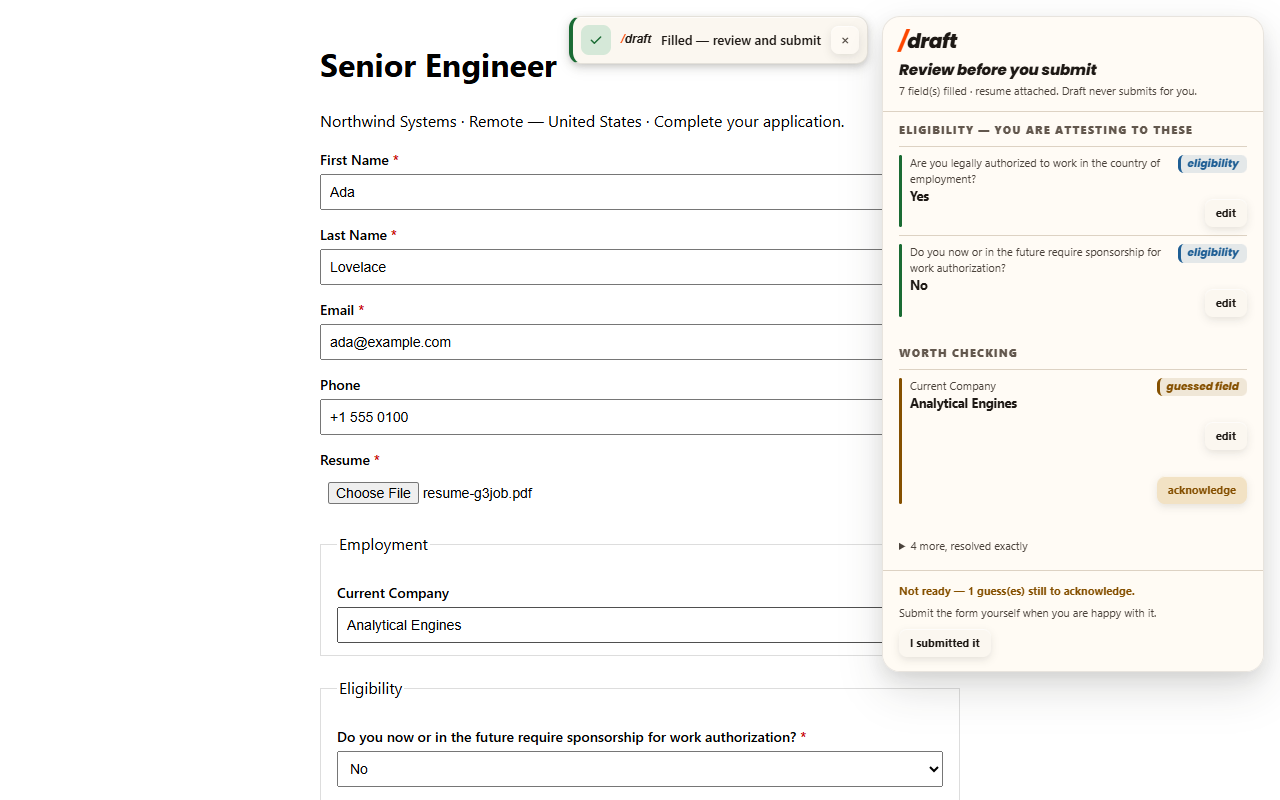
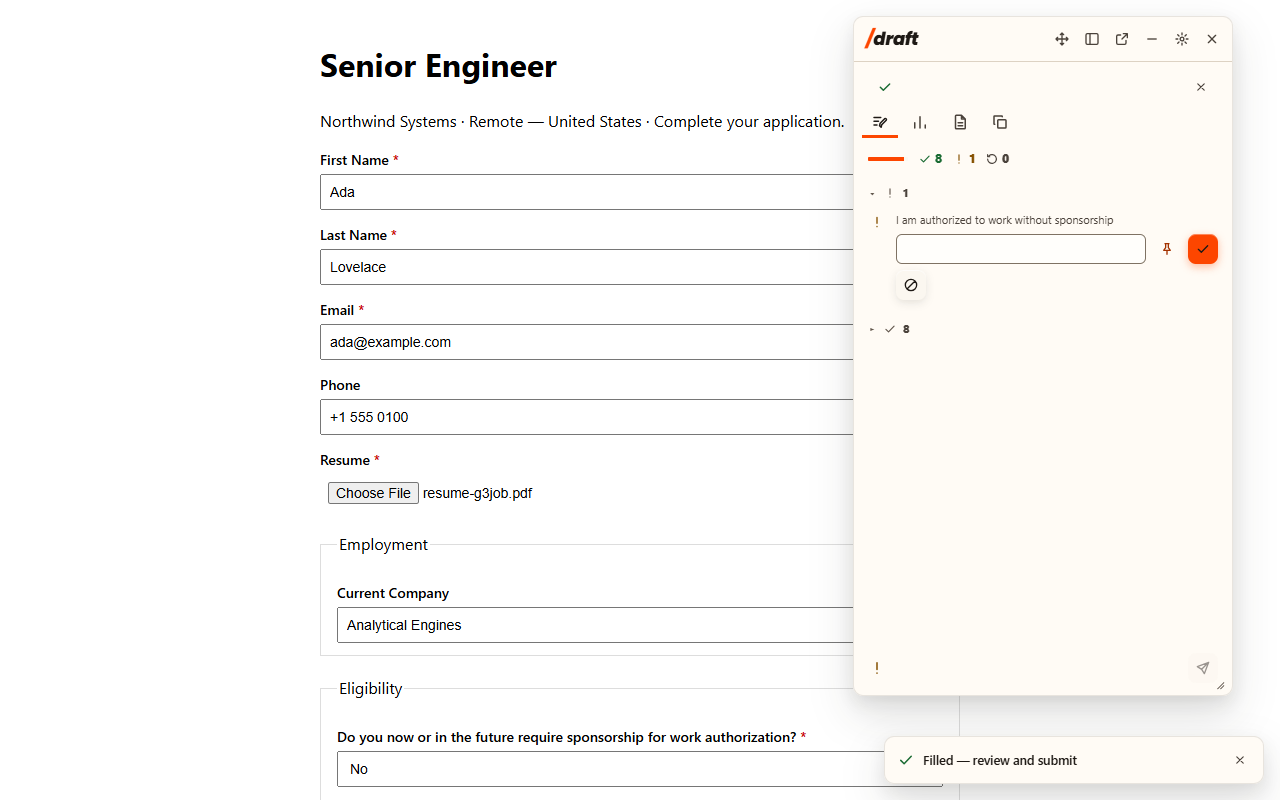
fix(store): T31 owner action 2 — the store screenshots show the dock, not the retired toolbar popup; the screenshot harness works again
2-popup.png showed the toolbar popup T31 retired. It is replaced by docs/store-screenshots/2-dock.png:
the dock the toolbar press opens on a posting, asking "Add this job to draft?" [Capture] [Draft] —
ONE real capture of the page, drawn by the extension; nothing composited. The press is sent as
TOOLBAR_PRESS from the extension's own page, which runs the same pressToolbar() as the toolbar's
onClicked (walks/toolbarPress). `npm run store:screenshots`: ALL PASS, all three 1280x800, 24-bit,
no alpha, the real-profile-value guard reading the dock's shadow text too.

The harness (scripts/g3ReviewOverlay.mjs) had been broken well before T31 — it last ran 10-09:
  - its hand-rolled schema lacked scraped_jobs.duplicate_of (the route threw), and it had no
    POST /api/extension/page, so binding-first stopped every fill at "draft couldn't be reached".
    It now builds the FULL schema from scripts/migrations.js and mounts the REAL identify route,
    as test-support/extensionBrowser.mjs does. The full schema cannot fall behind the routes.
  - its overlay checks reached into the old in-page overlay; the review is now the dock's Fill view
    (a shadow root; Needs you · Check · Filled). Same intents, re-pointed, with trusted clicks:
    Needs you comes first and holds the inverted eligibility question draft will not guess; Filled is
    collapsed; "Not ready — 1 needs you" until the person answers it (Leave blank), then "Ready";
[…]

diff --git a/scripts/fakeAts.js b/scripts/fakeAts.js
@@ -539,6 +539,49 @@ function ashbySpaForm({ delayMs, answerable = false, autofillTrap = false, deadS
   </script>`);
 }
 
+// T31 · the store screenshot's POSTING — a job description page, not an application form. The
+// toolbar press asks "Add this job to draft?" only on a page the capture's own matcher reads as a
+// posting (routes/extensionJob.js), and /ashby-spa is an application form with no description:
+// the press there rightly asks nothing. A SYNTHETIC employer only (the screenshot harness refuses a
+// real one), published the way most boards publish one — a JSON-LD JobPosting — so the extractor
+// names the company the way it does on a live board, not from the fixture's host.
+function postingPage() {
+  const ld = {
+    '@context': 'https://schema.org', '@type': 'JobPosting',
+    title: 'Senior Backend Engineer',
+    hiringOrganization: { '@type': 'Organization', name: 'Northwind Systems' },
+    jobLocationType: 'TELECOMMUTE', applicantLocationRequirements: { '@type': 'Country', name: 'United States' },
+    employmentType: 'FULL_TIME', datePosted: '2026-10-20',
+    // the full description, as boards publish it — the extractor files a page as a posting only when
+    // it carries one (extractor.js: a title alone is not a job)
+    description: '<p>Northwind Systems moves freight for ten thousand small businesses. You will build and run the ' +
+      'services behind our logistics platform: the APIs our customers integrate with, the pipelines that price a ' +
+      'shipment, and the tooling the rest of engineering depends on.</p><ul><li>5+ years building production backend ' +
+      'systems.</li><li>Relational databases, queues and cloud infrastructure.</li></ul>',
+  };
+  return page('Senior Backend Engineer — Northwind Systems', `
+  <script type="application/ld+json">${JSON.stringify(ld)}</script>
+  <h1>Senior Backend Engineer</h1>
+  <p style="font-size:13px;color:#666">Northwind Systems &middot; Remote &mdash; United States &middot; Full-time</p>
+  <h2>About the role</h2>
+  <p>Northwind Systems moves freight for ten thousand small businesses. You will build and run the
+  services behind our logistics platform: the APIs our customers integrate with, the pipelines that
+  price a shipment, and the tooling the rest of engineering depends on.</p>
+  <h2>What you will do</h2>
+  <ul>
+    <li>Design, build and operate backend services in a modern, typed language.</li>
+    <li>Own a service end to end — its data model, its on-call and its roadmap.</li>
+    <li>Work with product and design on the features customers ask for most.</li>
+  </ul>
+  <h2>What we look for</h2>
+  <ul>
+    <li>5+ years building production backend systems.</li>
+    <li>Experience with relational databases, queues and cloud infrastructure.</li>
+    <li>Clear writing, and care for the people who use what you build.</li>
+  </ul>
+  <p><a href="/ashby-spa?delay=0&amp;presentation=1">Apply for this job</a></p>`);
+}
+
 // The confirmation the submit navigates to. Separate page, real navigation — so `url_changed` and
 // the confirmation text are both genuinely earned rather than asserted by the fixture.
 function ashbySpaThanks() {
@@ -1654,6 +1697,7 @@ const server = http.createServer(async (req, res) => {
       }));
     }
     if (path === '/ashby-spa/thanks') return send(200, ashbySpaThanks());
+    if (path === '/posting')          return send(200, postingPage());
     if (path === '/spa') {
       // ?delay=<ms> overrides the hydration delay; ?delay=0 renders synchronously.
       // ?variant=2 serves a CHANGED form, for the schema-reconciliation case.

diff --git a/test/storeScreenshots.test.js b/test/storeScreenshots.test.js
@@ -15,7 +15,7 @@ import {
 import { at } from "../test-support/sourceAnchors.js";
 
 const SHOT_DIR = "docs/store-screenshots";
-const SHOTS = ["1-review-overlay", "2-popup", "3-options"];
+const SHOTS = ["1-review-overlay", "2-dock", "3-options"];
 
 // ── The PNG encoder ─────────────────────────────────────────────────────────────────────────────
 
@@ -127,7 +127,7 @@ test("?presentation=1 removes the trap CAPTIONS and keeps the traps THEMSELVES",
   assert.match(ats, /gatedForm\(\{ presentation: url\.searchParams\.get\('presentation'\) === '1' \}\)/);
 });
 
-test("the posting behind the popup drops the harness caption AND the real employer's brand", () => {
+test("the posting behind the dock drops the harness caption AND the real employer's brand", () => {
   const ats = fs.readFileSync("scripts/fakeAts.js", "utf8");
   const form = ats.slice(at(ats, "function ashbySpaForm("), at(ats, "function ashbySpaThanks("));
   assert.match(form, /presentation \? 'Senior Backend Engineer — Northwind Systems'/);
@@ -157,16 +157,17 @@ test("nothing is written until the image has been proved 1280x800, 24-bit and al
   assert.doesNotMatch(write, /check\(/, "a wrong-sized image must kill the run, not be tallied");
 });
 
-test("both capture paths go through the same gate", () => {
-  // The composited popup shot is built differently and must not be written differently.
+test("every capture goes through the same gate", () => {
+  // T31: the composited popup shot is retired; the dock is captured on the page, by shoot().
   assert.equal((harness.match(/fs\.writeFileSync\(file, png\)/g) || []).length, 1,
     "one write path only — a second is how one of the three ends up unvalidated");
-  assert.match(harness, /writeShot\('2-popup',/);
+  assert.match(harness, /shoot\(posting, '2-dock',/);
+  assert.doesNotMatch(harness, /popup\.html/, "the toolbar popup is retired (T31) — there is none to photograph");
 });
 
 test("the run is clean-slate, so a stale file cannot stand in for one that failed", () => {
   assert.match(harness, /fs\.rmSync\(SHOT_DIR, \{ recursive: true, force: true \}\)/);
-  assert.match(harness, /onDisk\.join\(','\) === '1-review-overlay\.png,2-popup\.png,3-options\.png'/);
+  assert.match(harness, /onDisk\.join\(','\) === '1-review-overlay\.png,2-dock\.png,3-options\.png'/);
 });
 
 test("captures are checked against the developer's REAL profile values", () => {

diff --git a/test/harnessSchemaCoverage.test.js b/test/harnessSchemaCoverage.test.js
@@ -264,16 +264,18 @@ test("no harness declares a column the migration it applies will ADD", () => {
 });
 
 test("the collision detector sees a real collision", () => {
-  // Same reasoning as the positive control below: a guard that cannot fail is not a guard. g3 really
-  // does apply 080, so re-adding the column to a copy of its schema must be reported.
-  const g3 = fs.readFileSync("scripts/g3ReviewOverlay.mjs", "utf8");
-  const added = migrationAddedColumns(g3, "apply_run_jobs");
+  // Same reasoning as the positive control below: a guard that cannot fail is not a guard. g4 really
+  // does apply 080, so re-adding the column to a copy of its schema must be reported. (g3 was the
+  // sample until 10-25, when it moved to the full schema — scripts/migrations.js, as the walks do —
+  // after its hand-rolled one had fallen behind the routes.)
+  const g4 = fs.readFileSync("scripts/g4SchemaCapture.mjs", "utf8");
+  const added = migrationAddedColumns(g4, "apply_run_jobs");
   assert.ok(added.has("gate_review_json"),
-    "g3 must still be applying the migration that adds gate_review_json");
+    "g4 must still be applying the migration that adds gate_review_json");
   // Injected into the apply_run_jobs statement ITSELF, not the whole file — `scraped_jobs` also has
   // an `ats_score INTEGER` column and appears first, so a file-wide replace lands in the wrong table
   // and the synthetic break silently does nothing.
-  const stmt = createStatement(g3, "apply_run_jobs");
+  const stmt = createStatement(g4, "apply_run_jobs");
   const reBroken = stmt.replace(/\bats_score INTEGER,/, "ats_score INTEGER, gate_review_json TEXT,");
   assert.notEqual(reBroken, stmt, "the injection point must exist");
   const declared = declaredColumns(reBroken);

diff --git a/extension/submission/STORE_LISTING.md b/extension/submission/STORE_LISTING.md
@@ -367,9 +367,10 @@ In the order the developer dashboard asks. ⛔ The owner pastes, ticks and uploa
 ⚠ = the dashboard's exact wording or requirement was not verifiable from this repository.
 
 **Package**
-1. **Upload** `extension/submission/resume-master-extension-v1.5.0.zip` — 193,616 bytes, SHA-256
[1 lines of base64/hex data omitted]
-   to `extension/` per `test/extensionSubmission.test.js`). The version must be higher than anything in review.
+1. **Upload** `extension/submission/resume-master-extension-v1.5.2.zip` — 443,430 bytes, SHA-256
[1 lines of base64/hex data omitted]
+   to `extension/` per `test/extensionSubmission.test.js`, measured 10-25). ⛔ Not the v1.5.0 zip this line named
+   until 10-25 — that is the pre-T31 build. The version must be higher than anything in review.
 
 **Store listing tab**
 2. **Description** — the summary is *Description* above (it is the manifest's). The detailed description is
@@ -377,10 +378,11 @@ In the order the developer dashboard asks. ⛔ The owner pastes, ticks and uploa
 3. **Category** — ⏸ the owner picks. Suggested: *Productivity → Workflow & Planning* (⚠ the list's current names).
 4. **Language** — English.
 5. **Store icon** — 128×128: `extension/icons/icon128.png` (uploaded separately from the zip; the package does not carry the listing icon).
-6. **Screenshots** — 1280×800 PNG: `docs/store-screenshots/1-review-overlay.png`, `2-popup.png`, `3-options.png`.
-   ✅ **Regenerated 2026-10-09** (`npm run store:screenshots`, ALL PASS, the synthetic Ada Lovelace fixture) — they show
-   the D63 popup, overlay and options page. ⛔ **T31 (10-25): `2-popup.png` shows the retired toolbar popup** —
-   replace it with the dock and its prompts before upload (the screenshot script is outside this file).
+6. **Screenshots** — 1280×800 PNG: `docs/store-screenshots/1-review-overlay.png`, `2-dock.png`, `3-options.png`.
+   ✅ **Regenerated 2026-10-25 for T31** (`npm run store:screenshots`, ALL PASS, the synthetic Ada Lovelace fixture) —
+   the review in the dock's Fill view over the gated form; **`2-dock.png` replaces `2-popup.png`**: the dock the
+   toolbar press opens on a posting, asking "Add this job to draft?" [Capture] [Draft]; and the settings page. ⛔ In
+   the dashboard, **delete the old popup screenshot** and upload all three.
 7. **Small promo tile** — 440×280: **none in the repository.** ⚠ Check whether the dashboard requires it.
 8. **Marquee promo tile** — 1400×560, optional: none.
 9. **Official URL / homepage** — `https://jobsviadraft.com`.
@@ -497,6 +499,6 @@ dashboard's **Test instructions** field with the steps below. ⛔ Never commit t
 - [ ] Paste: single purpose · every permission justification (`activeTab`, `contextMenus`, `scripting`,
       `storage`, the host permission, **the optional host permissions**) · the Privacy practices tab ·
       the four certifications, **including Limited Use**
-- [ ] Regenerate the store screenshots (`npm run store:screenshots`) — the popup, badge and overlay changed (D63);
-      ⛔ T31 (10-25): the toolbar popup is retired, so `2-popup.png` must become the dock
-- [ ] Upload `resume-master-extension-v1.5.0.zip` — the dashboard's version must be higher than any in review
+- [x] Regenerate the store screenshots (`npm run store:screenshots`) — ✅ 10-25 (T31): `2-popup.png` became
+      `2-dock.png`, the dock and its question; replace the popup image in the dashboard
+- [ ] Upload `resume-master-extension-v1.5.2.zip` — the dashboard's version must be higher than any in review
